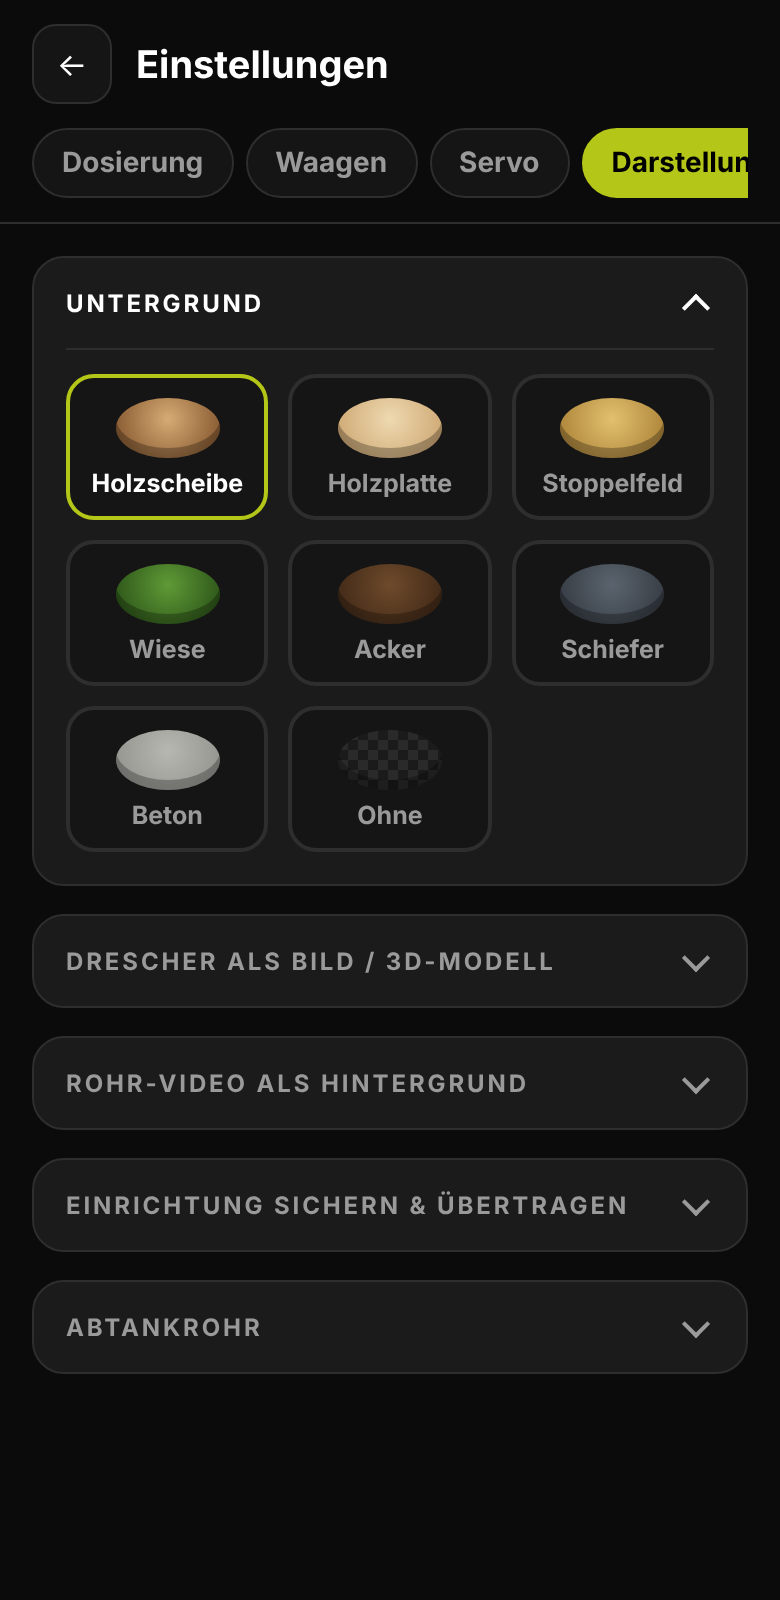
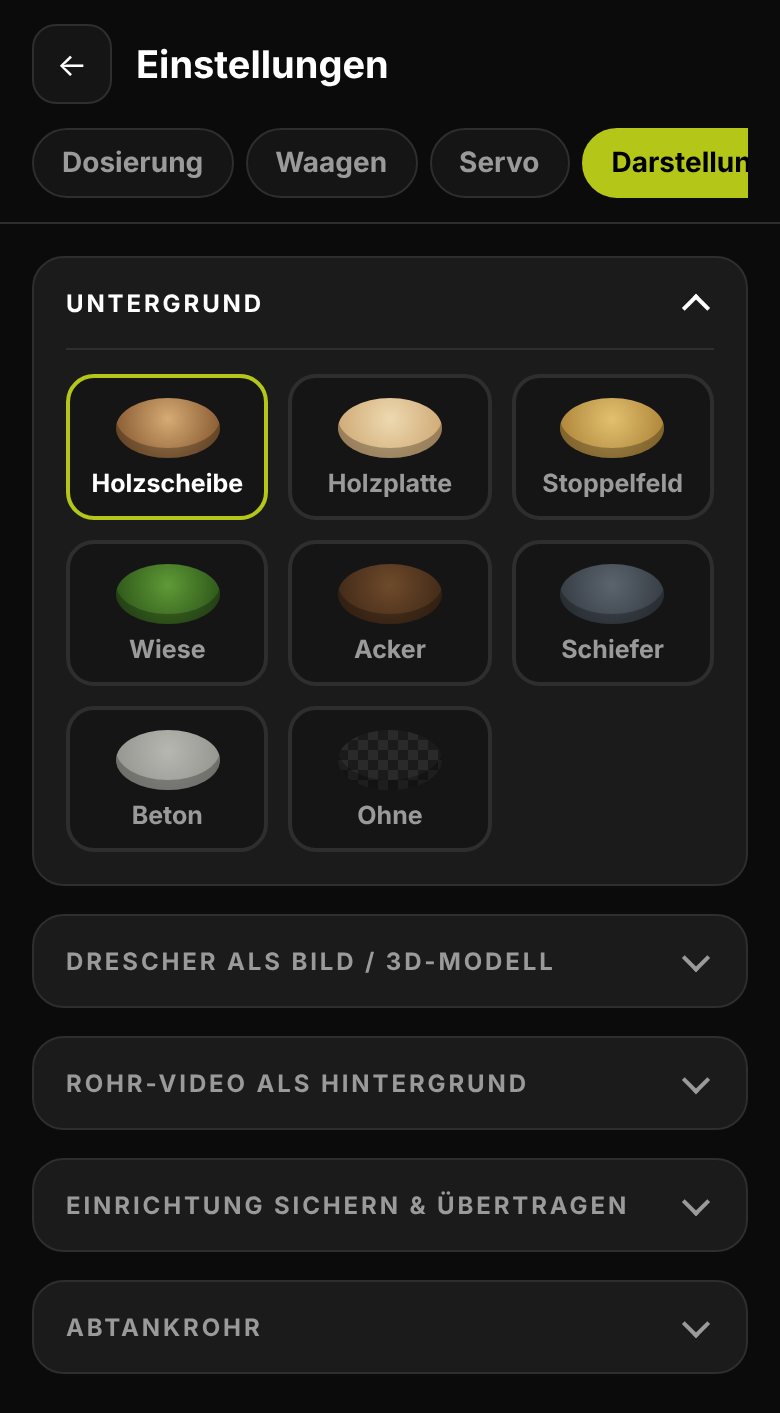
README: Darstellung am PC und am Handy nebeneinander
- Beide Screenshots in einer Tabelle, gleiche Höhe, beschriftet (Am PC / Am Handy)
- Leeren Bereich unter dem Handy-Screenshot abgeschnitten, Alt-Texte korrigiert

Claude-Session: https://claude.ai/code/session_01NBYnuXhPj8sirCiajUX7Up

diff --git a/README.md b/README.md
@@ -19,9 +19,18 @@ Ein Spielzeug-Mähdrescher, der mit seinem Abtankrohr bis zu **6 Gläser** anfä
 
 ### Untergründe & Darstellung
 
-<p align="center"><sub>Holzscheibe · Holzplatte · Stoppelfeld · Wiese · Acker · Schiefer · Beton · ohne – Glasnummern passen ihre Farbe automatisch an</sub></p>
-<p align="center"><img src="docs/images/untergruende.png" alt="Einstellungen: Darstellung mit Klapp-Reitern" width="220"></p>
-<p align="center"><img src="docs/images/app-darstellung.png" alt="Einstellungen: Darstellung mit Klapp-Reitern" width="220"></p>
+<table align="center">
+  <tr>
+    <td align="center" valign="bottom"><img src="docs/images/untergruende.png" alt="Einstellungen → Darstellung am PC: Untergrund-Auswahl und Klapp-Reiter" width="560"></td>
+    <td align="center" valign="bottom"><img src="docs/images/app-darstellung.png" alt="Einstellungen → Darstellung am Handy" width="244"></td>
+  </tr>
+  <tr>
+    <td align="center"><sub><b>Am PC</b></sub></td>
+    <td align="center"><sub><b>Am Handy</b></sub></td>
+  </tr>
+</table>
+
+<p align="center"><sub>Untergründe: Holzscheibe · Holzplatte · Stoppelfeld · Wiese · Acker · Schiefer · Beton · ohne – die Glasnummern passen ihre Farbe automatisch an.<br>Die Bereiche unter „Darstellung“ lassen sich einzeln auf- und zuklappen.</sub></p>
 
 **Online-Vorschau:** [mariofritzer.github.io/Liquid-Harvest/app/](https://mariofritzer.github.io/Liquid-Harvest/app/) – die komplette App als Simulation, ohne Hardware. Dort kannst du Bild, STL-Modell, Rohr-Video, Ausrichtung und Farben vorab einrichten, unter ⚙ → Darstellung **exportieren** und nach dem Flashen am Drescher **importieren**.
 
